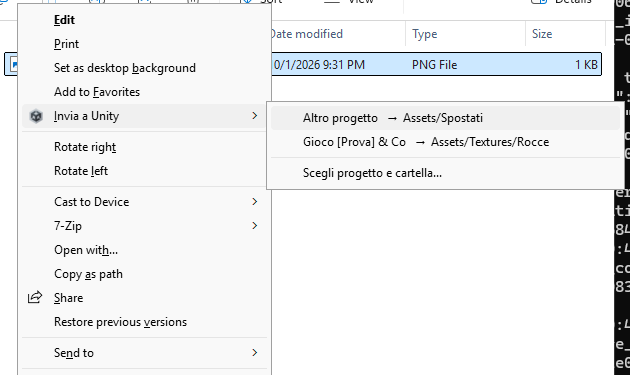
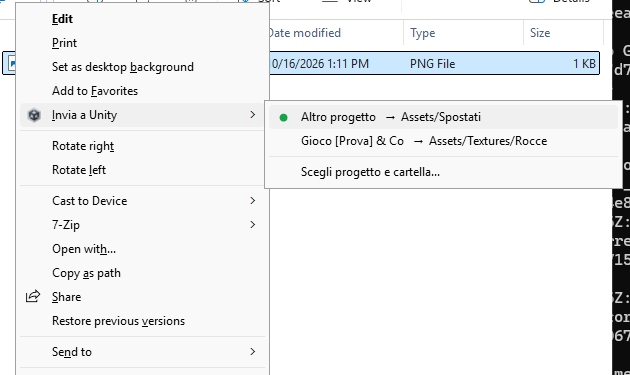
README e screenshot del menu con il pallino verde
Claude-Session: https://claude.ai/code/session_01Bf1bPtfGwNkmYLyxVQyQLC

diff --git a/README.md b/README.md
@@ -26,8 +26,9 @@ Seleziona i file (o una cartella), tasto destro > **Invia a Unity** > clic sul p
   di Unity; se ne manca uno: **Scegli progetto e cartella...** > **Sfoglia...**
   Due progetti con lo stesso nome si distinguono dalla cartella che li contiene.
 - Se il progetto è **aperto in Unity**, a copia finita Unity viene portato in primo piano e
-  importa subito i file. Se è chiuso, li importa alla prossima apertura. Nella finestra di scelta
-  i progetti aperti hanno un pallino verde.
+  importa subito i file. Se è chiuso, li importa alla prossima apertura. I progetti aperti hanno
+  un pallino verde, sia nel menu sia nella finestra di scelta: il menu viene preparato ogni volta
+  che lo apri, quindi il pallino è sempre aggiornato.
 
   ![Progetti aperti](docs/progetti-aperti.png)
 - Se un file **esiste già** puoi sostituirlo o saltarlo. Sostituendo, il file `.meta` resta:
@@ -61,8 +62,9 @@ Per aggiornare: rifai `install.cmd`. Per togliere tutto: `uninstall.cmd`.
 
 ## Da sapere
 
-- Il menu del tasto destro non mostra quali progetti sono aperti: Windows lo legge dal registro,
-  che il programma aggiorna solo a ogni invio, quindi lo stato sarebbe vecchio.
+- Il menu del tasto destro è una piccola estensione di Esplora risorse (una DLL compilata da
+  `install.cmd`, registrata solo per il tuo utente). Se dopo un aggiornamento il menu sembra
+  ancora quello vecchio, esci da Windows e rientra (oppure riavvia Esplora risorse).
 - La notifica segue il tema di Windows (chiaro o scuro), come i menu.
 - **Windows 11**: la voce è nel menu classico, cioè sotto "Mostra altre opzioni". Più veloce:
   **Maiusc + tasto destro**, che apre subito il menu classico.
@@ -75,7 +77,10 @@ Per aggiornare: rifai `install.cmd`. Per togliere tutto: `uninstall.cmd`.
 ## Per chi lo modifica
 
 - `SendToUnity.cs` è tutto il programma. Deve restare compatibile con C# 5, perché lo compila
-  il compilatore incluso in Windows.
+  il compilatore incluso in Windows. `install.cmd` lo compila due volte: come programma e come
+  DLL del menu (`IExplorerCommand`), che Esplora risorse carica per mostrare le voci.
 - `tests/test-windows.ps1` lo installa e lo prova su una vera macchina Windows (GitHub Actions,
   a ogni modifica di questa cartella): menu del tasto destro vero, finestre, copie, `.meta`,
-  file bloccati, progetto aperto in un finto Unity, disinstallazione.
+  file bloccati, progetto aperto in un finto Unity, disinstallazione. Il runner gira da
+  amministratore, quindi una parte del test crea un utente normale e rifà installazione, menu e
+  invio come lui.
